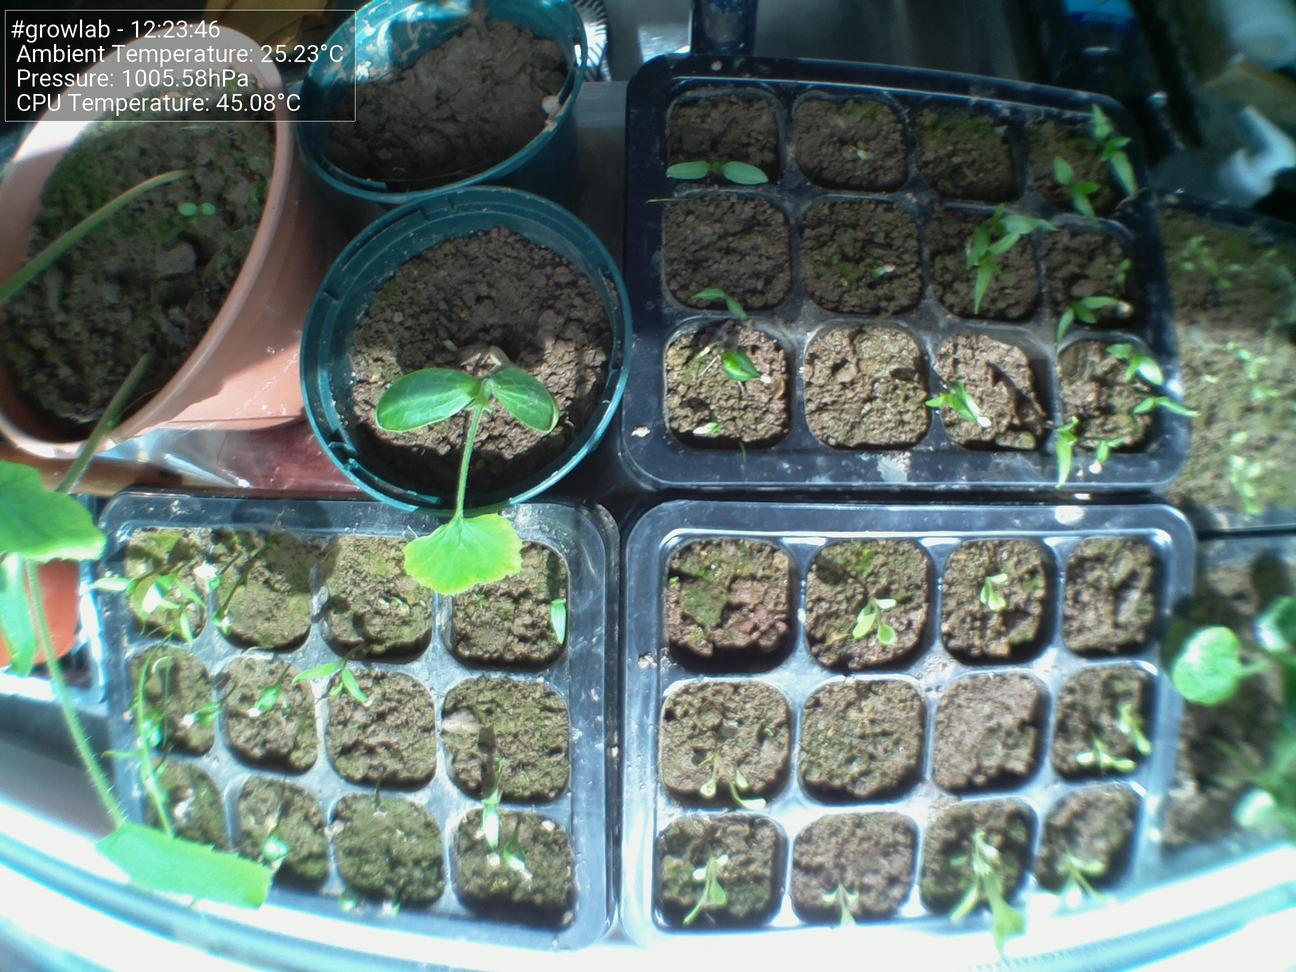
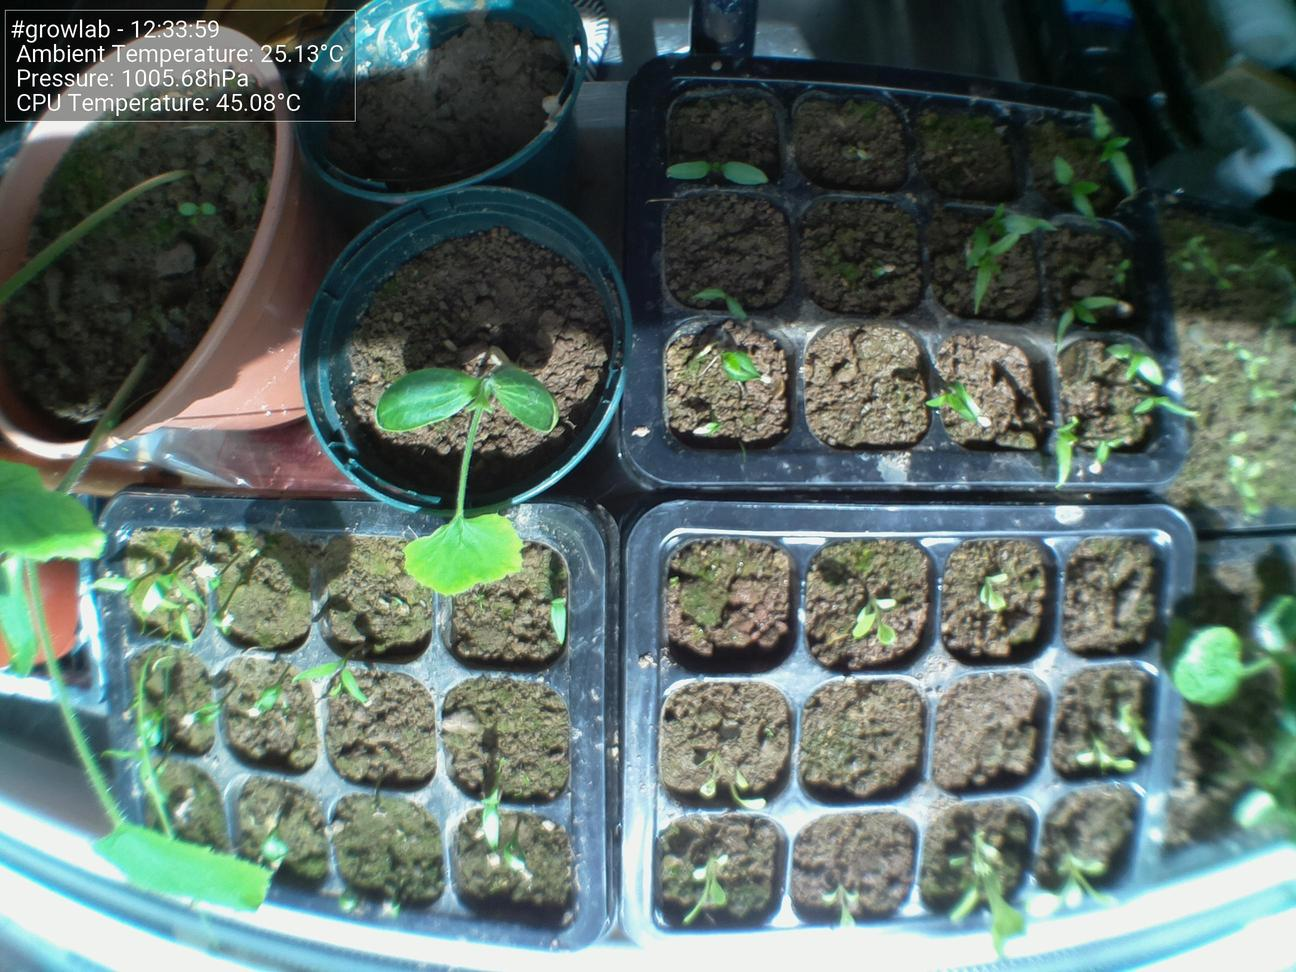
Update images at Tue 10 May 12:34:04 BST 2022

diff --git a/docs/index.html b/docs/index.html
@@ -44,7 +44,7 @@
                         <tbody>
                             <tr>
                                 <td>Time</td>
-                                <td>12:23:46</td>
+                                <td>12:33:59</td>
                             </tr>
                             <tr>
                                 <td>CPU Temp</td>
@@ -52,7 +52,7 @@
                             </tr>
                             <tr>
                                 <td>Ambient Temperature</td>
-                                <td>25.23°C</td>
+                                <td>25.13°C</td>
                             </tr>
                             <tr>
                                 <td>Humidity</td>
@@ -60,7 +60,7 @@
                             </tr>
                             <tr>
                                 <td>Pressure</td>
-                                <td>1005.58hPa</td>
+                                <td>1005.68hPa</td>
                             </tr>
                         </tbody>
                     </table>
@@ -68,7 +68,7 @@
 
                 <h5>Latest image</h5>
                 <div style="width: 85%;">
-                            <img class="figure-img img-fluid rounded" src="./preview.jpg?uid=1652181831.8483484">
+                            <img class="figure-img img-fluid rounded" src="./preview.jpg?uid=1652182444.6682665">
                 </div>
             </div>
         </div>
